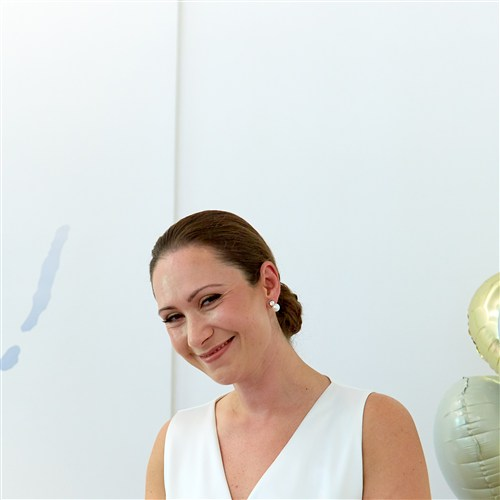
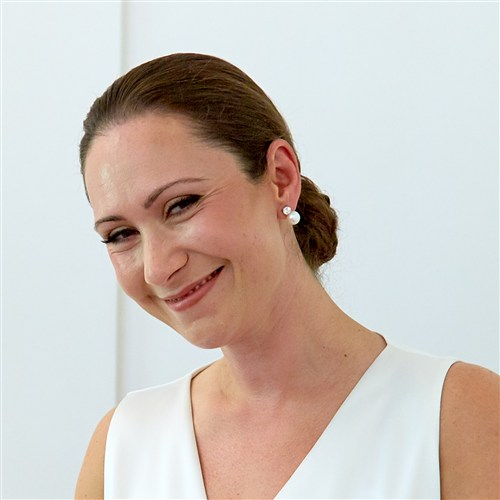
Add files via upload

diff --git a/index.html b/index.html
@@ -101,7 +101,6 @@
     display:inline-block;text-decoration:none;line-height:1.5;
     font-family:var(--font-script-display);font-weight:700;font-size:46px;
     color:var(--gold-700);
-    transform:rotate(-5deg);transform-origin:left center;
   }
   .brand .amp{font-size:.7em;color:var(--gold-600);}
   nav.links{display:flex;gap:26px;flex-wrap:wrap;}
@@ -136,6 +135,7 @@
   }
   .hero .intro{
     font-style:italic;font-size:20px;margin-top:var(--space-5);color:var(--gold-900);
+    text-wrap:balance;
   }
   .hero .scroll-cue{
     margin-top:var(--space-6);font-family:var(--font-label);font-size:11px;letter-spacing:.2em;
@@ -166,7 +166,7 @@
     font-family:var(--font-label);font-size:10.5px;letter-spacing:.18em;text-transform:uppercase;color:var(--gold-600);
     margin-bottom:var(--space-3);
   }
-  .person .bio{font-style:italic;font-size:17px;margin:0 0 var(--space-3);}
+  .person .bio{font-style:italic;font-size:17px;margin:0 0 var(--space-3);text-wrap:balance;}
   .person .contact{font-size:15px;color:var(--gold-700);}
   .people-divider{
     display:flex;align-items:center;justify-content:center;
@@ -188,6 +188,7 @@
   .quote-block{max-width:680px;margin:0 auto;text-align:center;}
   .quote-block p{
     font-style:italic;font-size:26px;line-height:1.55;color:var(--gold-900);margin:0;
+    text-wrap:balance;
   }
   .quote-block .attribution{
     margin-top:var(--space-4);font-family:var(--font-label);font-size:12px;letter-spacing:.18em;
@@ -208,7 +209,7 @@
     font-family:var(--font-label);font-size:11px;letter-spacing:.14em;text-transform:uppercase;color:var(--gold-600);
     margin-top:8px;
   }
-  .countdown-note{text-align:center;font-style:italic;margin-top:var(--space-5);font-size:17px;}
+  .countdown-note{text-align:center;font-style:italic;margin-top:var(--space-5);font-size:17px;text-wrap:balance;}
   .countdown-passed{display:none;text-align:center;font-style:italic;font-size:20px;max-width:520px;margin:0 auto;}
 
   /* ---------- Icons ---------- */
@@ -231,12 +232,12 @@
   .card .label{font-family:var(--font-label);font-size:12px;letter-spacing:.14em;text-transform:uppercase;color:var(--gold-900);margin-bottom:6px;}
   .card .when{font-family:var(--font-label);font-size:14px;letter-spacing:.05em;color:var(--gold-700);margin-bottom:var(--space-3);}
   .card .addr{font-size:16.5px;margin-bottom:var(--space-3);}
-  .card .note{font-style:italic;font-size:15px;color:var(--gold-700);}
+  .card .note{font-style:italic;font-size:15px;color:var(--gold-700);text-wrap:balance;}
   .card .link{display:inline-block;margin-top:var(--space-3);font-family:var(--font-label);font-size:11px;letter-spacing:.1em;text-transform:uppercase;text-decoration:none;border-bottom:1px solid var(--gold-700);color:var(--gold-700);}
 
   /* ---------- RSVP ---------- */
   .rsvp-wrap{max-width:640px;margin:0 auto;}
-  .rsvp-deadline{text-align:center;font-style:italic;margin-bottom:var(--space-6);}
+  .rsvp-deadline{text-align:center;font-style:italic;margin-bottom:var(--space-6);text-wrap:balance;}
   .field{margin-bottom:var(--space-5);}
   .field > label.flabel{
     display:block;font-family:var(--font-label);font-size:11.5px;letter-spacing:.14em;text-transform:uppercase;
@@ -273,7 +274,6 @@
     transition:background .2s,color .2s;
   }
   .add-guest-btn:hover{background:var(--gold-700);color:var(--white);}
-  .privacy{display:flex;gap:10px;align-items:flex-start;font-size:14.5px;}
   .submit-btn{
     display:block;margin:0 auto;font-family:var(--font-label);font-size:13px;letter-spacing:.16em;text-transform:uppercase;
     background:var(--gold-700);color:var(--white);border:none;padding:14px 40px;cursor:pointer;transition:background .2s;
@@ -294,7 +294,7 @@
   .t-item:last-child .stem{display:none;}
   .t-item .time{font-family:var(--font-label);font-size:13px;letter-spacing:.04em;color:var(--gold-900);text-align:right;padding-top:2px;}
   .t-item .title{font-family:var(--font-label);font-size:14.5px;letter-spacing:.03em;color:var(--gold-900);margin-bottom:2px;}
-  .t-item .desc{font-style:italic;font-size:16px;color:var(--gold-700);}
+  .t-item .desc{font-style:italic;font-size:16px;color:var(--gold-700);text-wrap:balance;}
 
   /* ---------- ABC ---------- */
   .abc-grid{display:grid;grid-template-columns:repeat(3,1fr);gap:var(--space-4);}
@@ -306,7 +306,7 @@
     -webkit-background-clip:text;background-clip:text;color:transparent;-webkit-text-fill-color:transparent;
   }
   .abc-item .term{font-family:var(--font-label);font-size:13px;letter-spacing:.06em;text-transform:uppercase;margin-bottom:4px;}
-  .abc-item .desc{font-size:15.5px;line-height:1.5;}
+  .abc-item .desc{font-size:15.5px;line-height:1.5;text-wrap:balance;}
 
   /* ---------- Photo collage ---------- */
   .photo-collage{position:relative;max-width:920px;margin:0 auto;height:660px;}
@@ -340,15 +340,12 @@
     background-image:var(--gold-shine);background-size:200% auto;
     -webkit-background-clip:text;background-clip:text;color:transparent;-webkit-text-fill-color:transparent;
   }
-  .closing p{font-style:italic;font-size:22px;max-width:560px;margin:0 auto;}
+  .closing p{font-style:italic;font-size:22px;max-width:560px;margin:0 auto;text-wrap:balance;}
 
   /* ---------- Footer ---------- */
   footer.site-footer{
     text-align:center;padding:var(--space-6) var(--space-5);border-top:1px solid var(--hairline);
   }
-  footer.site-footer .flinks{font-family:var(--font-label);font-size:11px;letter-spacing:.14em;text-transform:uppercase;}
-  footer.site-footer .flinks a{text-decoration:none;margin:0 10px;color:var(--gold-700);}
-  footer.site-footer .flinks a:hover{text-decoration:underline;}
 
   /* ================= RESPONSIVE ================= */
   @media (max-width:880px){
@@ -485,7 +482,7 @@
         <a class="link" href="https://www.google.com/maps/search/?api=1&query=St.+Jakob+Augsburger+Stra%C3%9Fe+2+85221+Dachau" target="_blank" rel="noopener">Route planen</a>
       </div>
       <div class="card">
-        <svg class="icon" viewBox="0 0 24 24"><path d="M4 21V10h2v3h2v-3h2v-4h4v4h2v3h2v-3h2v11z"/><path d="M4 21h16"/></svg>
+        <svg class="icon icon-lg" viewBox="0 0 24 24"><path d="M4 21V12h2v-2h1.5v2h1v-4h1.5v4h1v-2h2v2h1v-4h1.5v4h1v-2h2v2h1.5v-2h2V21z"/><path d="M4 21h16"/></svg>
         <div class="label">Hochzeitsfeier</div>
         <div class="when">17.04.2027<br>ab 16:00 Uhr</div>
         <div class="addr">Schloss Dachau<br>Kurfürst-Max-Emanuel-Platz 2, 85221 Dachau</div>
@@ -500,7 +497,7 @@
   <div class="wrap rsvp-wrap">
     <div class="eyebrow">Antworten</div>
     <h2 class="section-title">Rückmeldung</h2>
-    <p class="rsvp-deadline">Bitte gebt uns bis zum 15. Dezember 2026 Bescheid, ob ihr mit uns feiert.</p>
+    <p class="rsvp-deadline">Bitte gebt uns bis zum 15. Dezember 2026 Bescheid, ob Ihr mit uns feiert.</p>
 
     <form id="rsvpForm">
       <div class="field">
@@ -512,13 +509,14 @@
       </div>
 
       <div class="field" id="guestSection">
-        <label class="flabel">Wer kommt mit und was möchtet ihr essen?</label>
+        <label class="flabel">Wer kommt mit und was möchtet Ihr essen?</label>
         <div id="guestList">
           <div class="guest-row">
             <input type="text" class="guest-name" placeholder="Vor- und Nachname" required>
             <select class="guest-menu">
               <option value="fleisch">Fleisch</option>
               <option value="fisch">Fisch</option>
+              <option value="fleisch-fisch">Fleisch und Fisch</option>
               <option value="vegetarisch">Vegetarisch</option>
               <option value="vegan">Vegan</option>
             </select>
@@ -531,13 +529,6 @@
       <div class="field">
         <label class="flabel" for="rsvpMessage">Nachricht (optional)</label>
         <textarea id="rsvpMessage" name="message"></textarea>
-      </div>
-
-      <div class="field">
-        <label class="privacy">
-          <input type="checkbox" required style="margin-top:4px;">
-          <span>Beim Absenden der Anmeldung bin ich einverstanden, dass meine Angaben zur Planung der Feier gespeichert werden.</span>
-        </label>
       </div>
 
       <button type="submit" class="submit-btn" id="rsvpSubmitBtn">Absenden</button>
@@ -558,13 +549,15 @@
         <div class="role">Trauzeugin</div>
         <div class="name">Carolin Weiß</div>
         <p class="bio">„Carolin ist meine Bestie, die mich auch ganz ohne Worte versteht – immer!“</p>
+        <div class="contact">Tel. 0151 5857 9100</div>
       </div>
       <div class="people-divider">&amp;</div>
       <div class="person">
         <div class="avatar"><div class="ring"><img src="img/avatar-onno.jpg" alt="Onno und Jens"></div></div>
         <div class="role">Trauzeuge</div>
-        <div class="name">Onno Schüßler</div>
+        <div class="name">Onno Schüssler</div>
         <p class="bio">„Onno und ich kennen uns schon, seitdem wir kaum laufen konnten – also Freunde der ersten Stunde.“</p>
+        <div class="contact">Tel. 0151 1741 5727</div>
       </div>
     </div>
   </div>
@@ -589,7 +582,7 @@
 <section id="unterkuenfte">
   <div class="wrap">
     <div class="eyebrow">Unterkünfte</div>
-    <h2 class="section-title">Wo ihr schlafen könnt</h2>
+    <h2 class="section-title">Wo Ihr schlafen könnt</h2>
     <div class="card-grid-2" style="grid-template-columns:1fr;max-width:360px;">
       <div class="card">
         <div class="label">Hotel DAH-Inn</div>
@@ -609,18 +602,18 @@
       <div class="abc-item"><div class="letter">A</div><div><div class="term">Adults Only</div><div class="desc">Wir bitten liebevoll um Verständnis, dass wir im Kreise der Erwachsenen feiern möchten</div></div></div>
       <div class="abc-item"><div class="letter">B</div><div><div class="term">Buffet</div><div class="desc">Buffet finden wir ungemütlich, daher gibt es bei uns ein Menü</div></div></div>
       <div class="abc-item"><div class="letter">C</div><div><div class="term">Cocktails</div><div class="desc">Zur Party gibt's auch den ein oder anderen Cocktail</div></div></div>
-      <div class="abc-item"><div class="letter">D</div><div><div class="term">Dresscode</div><div class="desc">Bitte erscheint in festlich eleganter Garderobe</div></div></div>
-      <div class="abc-item"><div class="letter">E</div><div><div class="term">Ehe</div><div class="desc">Nach diesem Tag sind wir nicht mehr nur ein Paar, sondern Mann und Frau</div></div></div>
+      <div class="abc-item"><div class="letter">D</div><div><div class="term">Dresscode</div><div class="desc">Festlich-elegant: Anzug oder Kleid sind perfekt – ein Smoking bzw. Black Tie ist nicht nötig</div></div></div>
+      <div class="abc-item"><div class="letter">E</div><div><div class="term">Ehe</div><div class="desc">Auf dem Papier sind wir schon verheiratet – heute geht es um unser Ja-Wort vor der Kirche und vor Euch</div></div></div>
       <div class="abc-item"><div class="letter">F</div><div><div class="term">Flitterwochen</div><div class="desc">Verbringen wir voraussichtlich in Afrika</div></div></div>
-      <div class="abc-item"><div class="letter">G</div><div><div class="term">Gästebuch</div><div class="desc">Haben wir auch. Wir freuen uns, wenn ihr euch eintragt!</div></div></div>
+      <div class="abc-item"><div class="letter">G</div><div><div class="term">Gästebuch</div><div class="desc">Haben wir auch. Wir freuen uns, wenn Ihr Euch eintragt!</div></div></div>
       <div class="abc-item"><div class="letter">H</div><div><div class="term">Häppchen</div><div class="desc">Zum Sektempfang gibt es neben Kuchen auch salzige Häppchen</div></div></div>
-      <div class="abc-item"><div class="letter">I</div><div><div class="term">Ideen</div><div class="desc">Bitte stimmt euch mit unseren Trauzeugen ab</div></div></div>
+      <div class="abc-item"><div class="letter">I</div><div><div class="term">Ideen</div><div class="desc">Bitte stimmt Euch mit unseren Trauzeugen ab</div></div></div>
       <div class="abc-item"><div class="letter">J</div><div><div class="term">JA</div><div class="desc">Ist das wichtigste Wort an diesem Tag</div></div></div>
       <div class="abc-item"><div class="letter">K</div><div><div class="term">Küsse</div><div class="desc">Wird ans Glas geklopft, gibt's ein Küsschen von uns</div></div></div>
-      <div class="abc-item"><div class="letter">L</div><div><div class="term">Liebe</div><div class="desc">Der Grund, warum wir heute hier sind – und warum wir uns so freuen, diesen Tag mit euch zu teilen</div></div></div>
-      <div class="abc-item"><div class="letter">M</div><div><div class="term">Menü</div><div class="desc">Bitte entscheidet euch zwischen Fleisch, Fisch und Vegetarisch</div></div></div>
+      <div class="abc-item"><div class="letter">L</div><div><div class="term">Liebe</div><div class="desc">Der Grund, warum wir heute hier sind – und warum wir uns so freuen, diesen Tag mit Euch zu teilen</div></div></div>
+      <div class="abc-item"><div class="letter">M</div><div><div class="term">Menü</div><div class="desc">Bitte entscheidet Euch zwischen Fleisch, Fisch, Vegetarisch und Vegan</div></div></div>
       <div class="abc-item"><div class="letter">N</div><div><div class="term">Nachname</div><div class="desc">Auch als gleichberechtigtes Paar gehört ein gemeinsamer Name für uns dazu – #TheRaskops</div></div></div>
-      <div class="abc-item"><div class="letter">O</div><div><div class="term">Offene Fragen</div><div class="desc">Meldet euch einfach direkt bei uns – wir freuen uns über jede Nachricht</div></div></div>
+      <div class="abc-item"><div class="letter">O</div><div><div class="term">Offene Fragen</div><div class="desc">Meldet Euch einfach direkt bei uns – wir freuen uns über jede Nachricht</div></div></div>
       <div class="abc-item"><div class="letter">P</div><div><div class="term">Parken</div><div class="desc">Am Schloss Dachau gibt es ausreichend Parkplätze – von dort ist es auch nur ein kurzer Weg zur Kirche</div></div></div>
       <div class="abc-item"><div class="letter">Q</div><div><div class="term">Qualifiziert</div><div class="desc">Haben wir uns für die Ehe nach nun über 8 Jahren Beziehung</div></div></div>
       <div class="abc-item"><div class="letter">R</div><div><div class="term">Ringe</div><div class="desc">Das Zeichen für das Ja, das wir uns an diesem Tag geben</div></div></div>
@@ -631,7 +624,7 @@
       <div class="abc-item"><div class="letter">W</div><div><div class="term">Wetter</div><div class="desc">Bei Sonne wie bei Regen – wir feiern in jedem Fall ausgelassen!</div></div></div>
       <div class="abc-item"><div class="letter">X</div><div><div class="term">X-Beine</div><div class="desc">Sind keine Ausrede, getanzt wird trotzdem!</div></div></div>
       <div class="abc-item"><div class="letter">Y</div><div><div class="term">Yes-Moment</div><div class="desc">Der Moment, in dem wir uns das Jawort geben – für uns der Höhepunkt des Tages</div></div></div>
-      <div class="abc-item"><div class="letter">Z</div><div><div class="term">Zum Schluss</div><div class="desc">Vielen Dank für eure Unterstützung und dass ihr diesen besonderen Tag mit uns verbringen werdet</div></div></div>
+      <div class="abc-item"><div class="letter">Z</div><div><div class="term">Zum Schluss</div><div class="desc">Vielen Dank für Eure Unterstützung und dass Ihr diesen besonderen Tag mit uns verbringen werdet</div></div></div>
     </div>
   </div>
 </section>
@@ -653,14 +646,10 @@
 
 <div class="closing">
   <div class="m">J &amp; J</div>
-  <p>Wir freuen uns sehr, wenn ihr diesen besonderen Tag mit uns teilt und ihn unvergesslich macht.</p>
+  <p>Wir freuen uns sehr, wenn Ihr diesen besonderen Tag mit uns teilt und ihn unvergesslich macht.</p>
 </div>
 
 <footer class="site-footer">
-  <div class="flinks">
-    <a href="#">Impressum</a>
-    <a href="#">Datenschutz</a>
-  </div>
 </footer>
 
 <script>
@@ -744,6 +733,7 @@
       '<select class="guest-menu">' +
         '<option value="fleisch">Fleisch</option>' +
         '<option value="fisch">Fisch</option>' +
+        '<option value="fleisch-fisch">Fleisch und Fisch</option>' +
         '<option value="vegetarisch">Vegetarisch</option>' +
         '<option value="vegan">Vegan</option>' +
       '</select>' +
